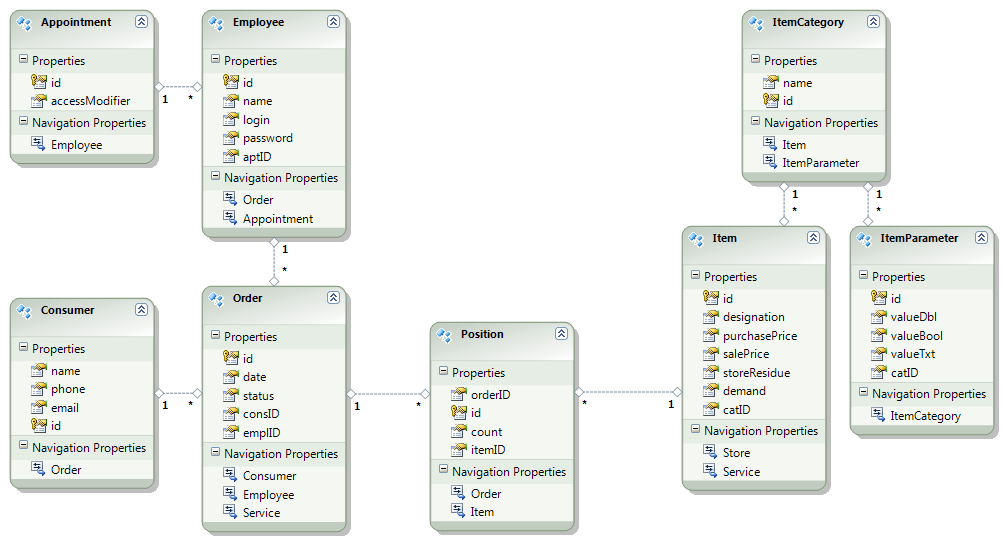
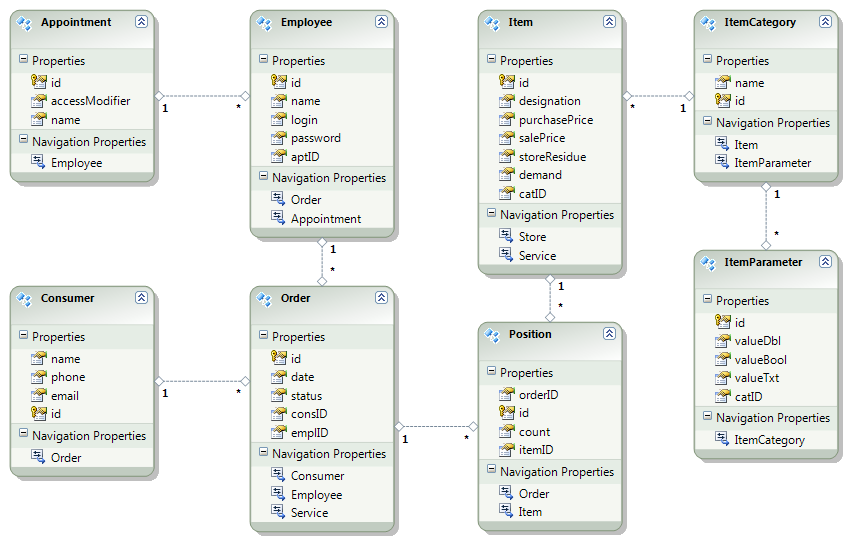
ER model fix

diff --git a/SERIOUS_BUSINESS/res/Model1.cs b/SERIOUS_BUSINESS/res/Model1.cs
@@ -294,11 +294,13 @@ namespace SERIOUS_BUSINESS.res
         /// </summary>
         /// <param name="id">Initial value of the id property.</param>
         /// <param name="accessModifier">Initial value of the accessModifier property.</param>
-        public static Appointment CreateAppointment(global::System.Int32 id, global::System.Int16 accessModifier)
+        /// <param name="name">Initial value of the name property.</param>
+        public static Appointment CreateAppointment(global::System.Int32 id, global::System.Int16 accessModifier, global::System.String name)
         {
             Appointment appointment = new Appointment();
             appointment.id = id;
             appointment.accessModifier = accessModifier;
+            appointment.name = name;
             return appointment;
         }
 
@@ -355,6 +357,30 @@ namespace SERIOUS_BUSINESS.res
         private global::System.Int16 _accessModifier;
         partial void OnaccessModifierChanging(global::System.Int16 value);
         partial void OnaccessModifierChanged();
+    
+        /// <summary>
+        /// No Metadata Documentation available.
+        /// </summary>
+        [EdmScalarPropertyAttribute(EntityKeyProperty=false, IsNullable=false)]
+        [DataMemberAttribute()]
+        public global::System.String name
+        {
+            get
+            {
+                return _name;
+            }
+            set
+            {
+                OnnameChanging(value);
+                ReportPropertyChanging("name");
+                _name = StructuralObject.SetValidValue(value, false);
+                ReportPropertyChanged("name");
+                OnnameChanged();
+            }
+        }
+        private global::System.String _name;
+        partial void OnnameChanging(global::System.String value);
+        partial void OnnameChanged();
 
         #endregion
     
